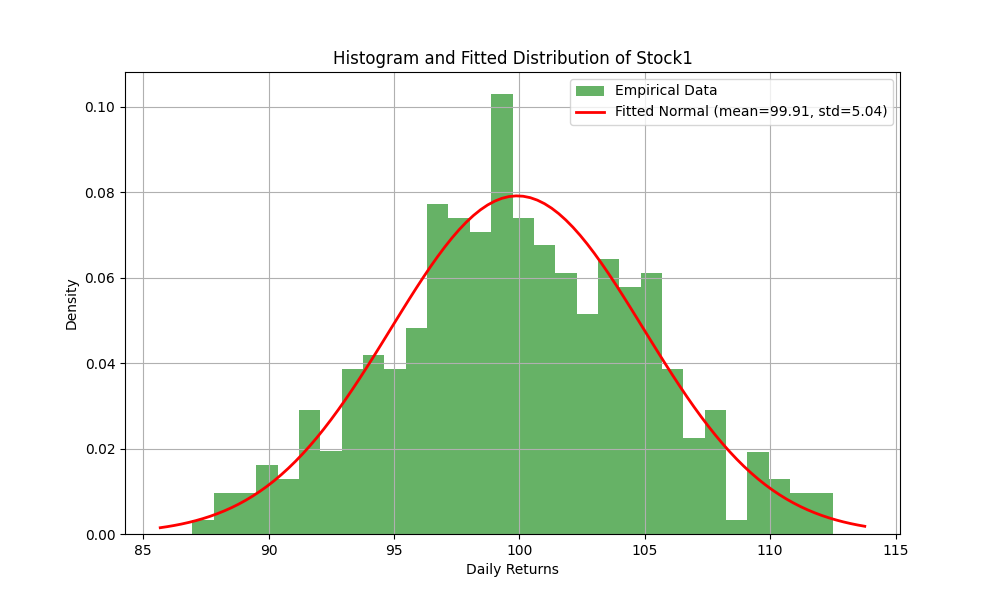
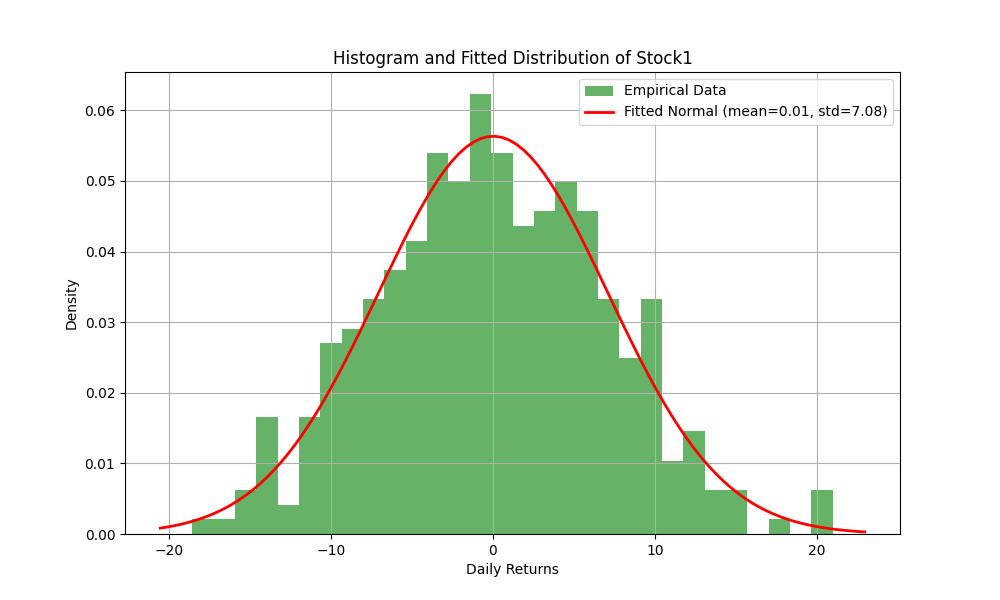
done w part one and two, working on three

diff --git a/stockDist.py b/stockDist.py
@@ -7,12 +7,8 @@ import numpy as np
 def readFile(filename):
     # Read the single column data
     df = pd.read_csv(filename, header=None, names=['Daily Returns'])
-
-    # Convert the index to a date range
-    # Assuming the data is daily and starts from today
-    df.index = pd.date_range(end=pd.Timestamp.today(), periods=len(df), freq='D')
-
-    return df
+    l = df['Daily Returns']
+    return [0 if i == 0 else l[i] - l[i-1] for i in range(len(l))]
 
 
 def plotNormalReturns(df, filename):
@@ -22,6 +18,8 @@ def plotNormalReturns(df, filename):
 
     # Perform Kolmogorov-Smirnov test
     ks_statistic, p_value = stats.kstest(df, 'norm', args=(mean, std))
+
+    print(f"K Statistic: {ks_statistic}, p-value: {p_value}")
 
     # Plot histogram of the data
     plt.figure(figsize=(10, 6))
@@ -44,13 +42,13 @@ def plotNormalReturns(df, filename):
     plt.show()
     plt.close()
 
-def plotLogNormReturns(df, filename):
+def plotBetaReturns(df, filename):
 
-    shape, loc, scale = stats.lognorm.fit(df['Daily Returns'])
-
+    # Unpack four parameters from beta distribution fit
+    a, b, loc, scale = stats.beta.fit(df)
 
     # Perform Kolmogorov-Smirnov test
-    ks_statistic, p_value = stats.kstest(df, 'lognorm', args=(shape, loc, scale))
+    ks_statistic, p_value = stats.kstest(df, 'beta', args=(a, b, loc, scale))
 
     print(f"KS Statistic: {ks_statistic}, p-value: {p_value}")
 
@@ -62,17 +60,18 @@ def plotLogNormReturns(df, filename):
     xmin, xmax = plt.xlim()
     x = np.linspace(xmin, xmax, 100)
 
-    # Plot the PDF of the fitted normal distribution
-    pdf = stats.lognorm.pdf(x, shape, loc, scale)
-    plt.plot(x, pdf, 'r-', linewidth=2, label=f'Fitted LogNorm (shape={shape:.2f}, loc={loc:.2f}, scale={scale:.2f})')
-    plt.title(f'Histogram and Fitted Distribution of {filename.capitalize()}')
+    # Plot the PDF of the fitted beta distribution
+    pdf = stats.beta.pdf(x, a, b, loc, scale)
+    plt.plot(x, pdf, 'r-', linewidth=2, label=f'Fitted Beta (a={a:.2f}, b={b:.2f}, loc={loc:.2f}, scale={scale:.2f})')
+    plt.title(f'Histogram and Fitted Beta Distribution of {filename.capitalize()}')
     plt.xlabel('Daily Returns')
     plt.ylabel('Density')
     plt.legend()
     plt.grid(True)
-    plt.savefig(f'assets/{filename}LogNormal.png')
+    plt.savefig(f'assets/{filename}Beta.png')
     plt.show()
     plt.close()
+
 
 
 
@@ -80,10 +79,10 @@ def plotLogNormReturns(df, filename):
 if __name__ == "__main__":
     try:
         stock1_data = readFile('stock1.csv')
-        stock2_data = readFile('stock2-1.csv')
+        stock2_data = readFile('stock2.csv')
         plotNormalReturns(stock1_data, 'stock1')
         plotNormalReturns(stock2_data, 'stock2')
-        plotLogNormReturns(stock1_data, 'stock1')
-        plotLogNormReturns(stock2_data, 'stock2')
+        plotBetaReturns(stock1_data, 'stock1')
+        plotBetaReturns(stock2_data, 'stock2')
     except Exception as e:
         print(f"An error occurred: {e}")

diff --git a/partThree.py b/partThree.py
@@ -1,0 +1,71 @@
+import pandas as pd
+import matplotlib.pyplot as plt
+from pandas import read_csv
+from scipy import stats
+import numpy as np
+
+# PART ONE
+def readFile(filename):
+    # Read the single column data
+    df = pd.read_csv(filename, header=None, names=['Daily Returns'])
+    l = list(df['Daily Returns'])
+    return [0 if i == 0 else l[i] - l[i-1] for i in range(len(l))], l[-1]
+
+def betaFit(df):
+    # Unpack four parameters from beta distribution fit
+    return stats.beta.fit(df)
+
+
+
+
+# PART TWO
+def payoff(strike, stock_price):
+    return max(stock_price - strike, 0)
+
+def simulate_geometric_brownian_motion(initial_price, drift, a, b, loc, scale, paths):
+    T = 1
+    dt = 1/365
+    timesteps = int(T / dt)
+    price_paths = np.zeros((paths, timesteps))
+    for i in range(paths):
+        current_price = initial_price
+        for t in range(timesteps):
+            dWt = (np.random.beta(a, b) * scale) - loc # random motion
+            dYt = (drift * dt) + dWt # Change in price
+            current_price += dYt # Update the current price
+            price_paths[i, t] = current_price # Store price in path
+    return price_paths
+
+
+def monte_carlo_option_pricing(price_paths, strike, risk_free_rate):
+    call_payoffs = np.zeros(price_paths.shape[0])
+    final_prices = np.zeros(price_paths.shape[0])
+    for i in range(price_paths.shape[0]):
+        final_price = price_paths[i, -1] # Last price in the path
+        final_prices[i] = final_price
+        call_payoffs[i] = payoff(strike, final_price) / (1 + risk_free_rate)
+    return final_prices, call_payoffs
+
+
+
+
+
+
+
+
+if __name__ == "__main__":
+    stock1, close1 = readFile('stock1.csv')
+    stock2, close2 = readFile('stock2.csv')
+
+    a1, b1, loc1, scale1 = betaFit(stock1)
+    volatility1 = scale1
+    offset1 = loc1/scale1
+
+    a2, b2, offset2, volatility2 = betaFit(stock2)
+
+    paths1 = simulate_geometric_brownian_motion(close1, 0.03, a1, b1, loc1, scale1, 5000)
+    print(a1, b1, offset1, volatility1)
+
+    for i in range(10):
+        plt.plot(paths1[i])
+    plt.show()

diff --git a/monteCarlo.py b/monteCarlo.py
@@ -1,0 +1,46 @@
+import matplotlib.pyplot as plt
+import numpy as np
+import math
+
+def payoff(strike, stock_price):
+    return max(stock_price - strike, 0)
+
+def simulate_geometric_brownian_motion(initial_price, drift, volatility, dt, T, paths):
+    timesteps = int(T / dt)
+    price_paths = np.zeros((paths, timesteps))
+    for i in range(paths):
+        current_price = initial_price
+        for t in range(timesteps):
+            dWt = np.random.beta(9, 10) - 0.35 # random motion
+            dYt = (drift * dt) + (volatility * dWt) # Change in price
+            current_price += dYt # Update the current price
+            price_paths[i, t] = current_price # Store price in path
+    return price_paths
+
+
+def monte_carlo_option_pricing(price_paths, strike, risk_free_rate):
+    call_payoffs = np.zeros(price_paths.shape[0])
+    final_prices = np.zeros(price_paths.shape[0])
+    for i in range(price_paths.shape[0]):
+        final_price = price_paths[i, -1] # Last price in the path
+        final_prices[i] = final_price
+        call_payoffs[i] = payoff(strike, final_price) / (1 + risk_free_rate)
+    return final_prices, call_payoffs
+
+
+
+
+
+
+if __name__ == "__main__":
+    price_paths = simulate_geometric_brownian_motion(100, 0.03, 17.04, 1/365, 1, 5000)
+    for i in range(10):
+        plt.plot(price_paths[i])
+    plt.show()
+
+    pricing = monte_carlo_option_pricing(price_paths, 100, 0.01)
+    print(pricing[0].mean(), pricing[1].mean())
+
+    print(f"Average stock price after {int(1 / (1/365)) * 1} days: ${pricing[0].mean(): .2f}")
+    print(f"\nAverage payoff (option block of 100): ${pricing[1].mean() *100:.2f}")
+    print(f"Cost of option: ${pricing[1].mean():.2f}")
